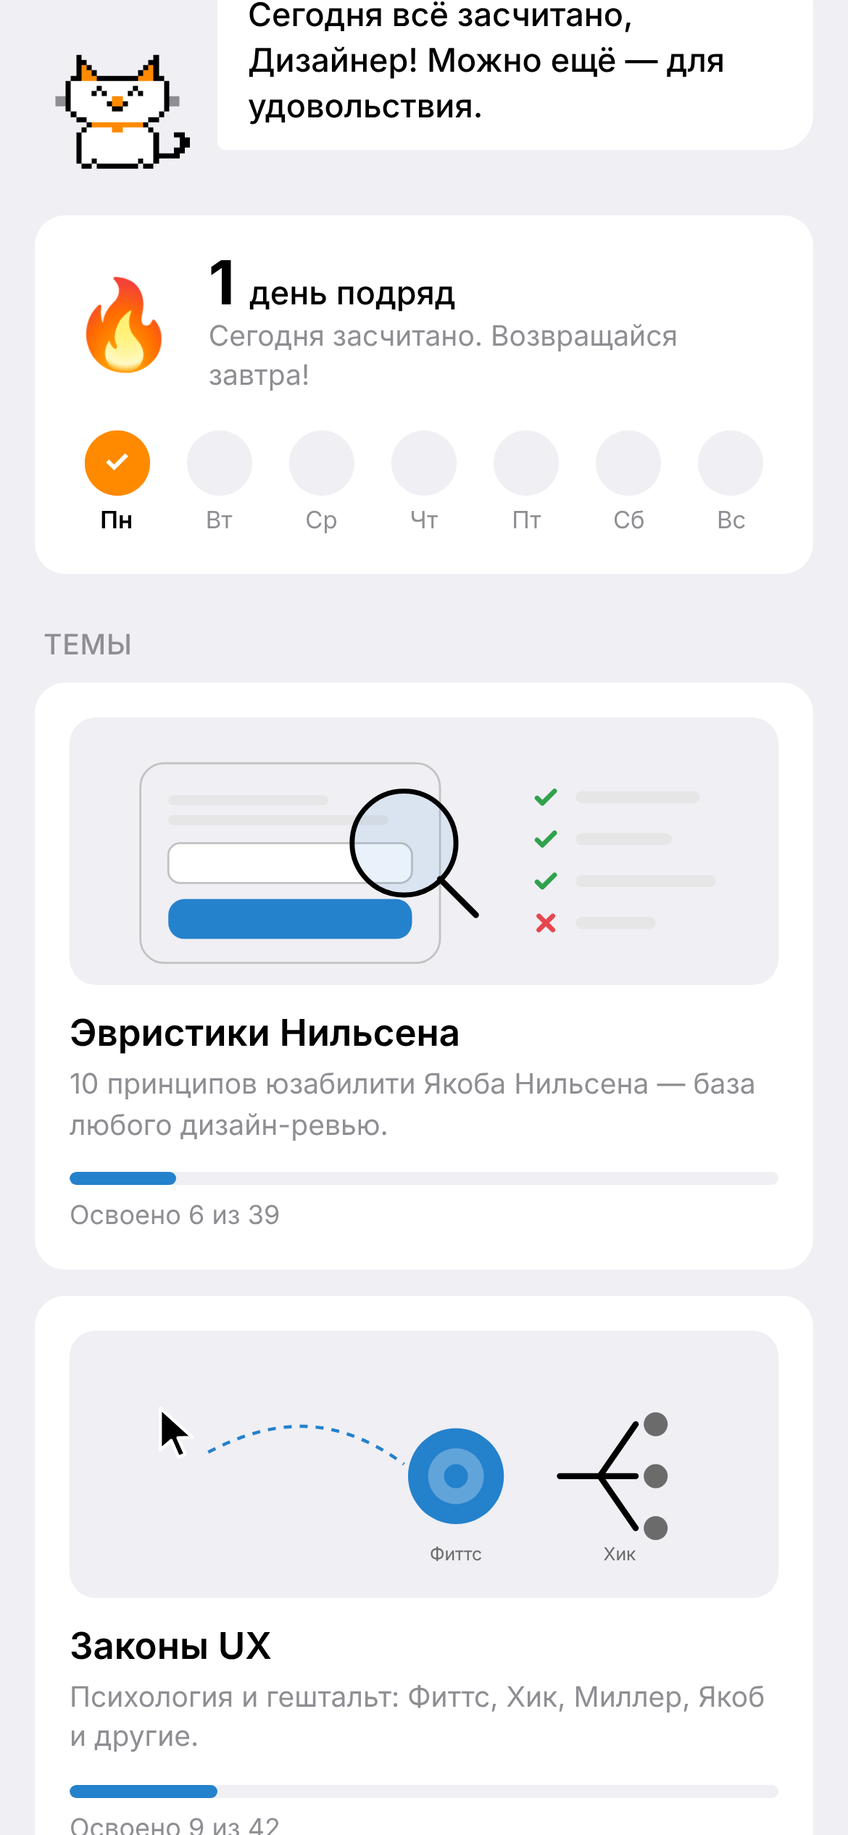
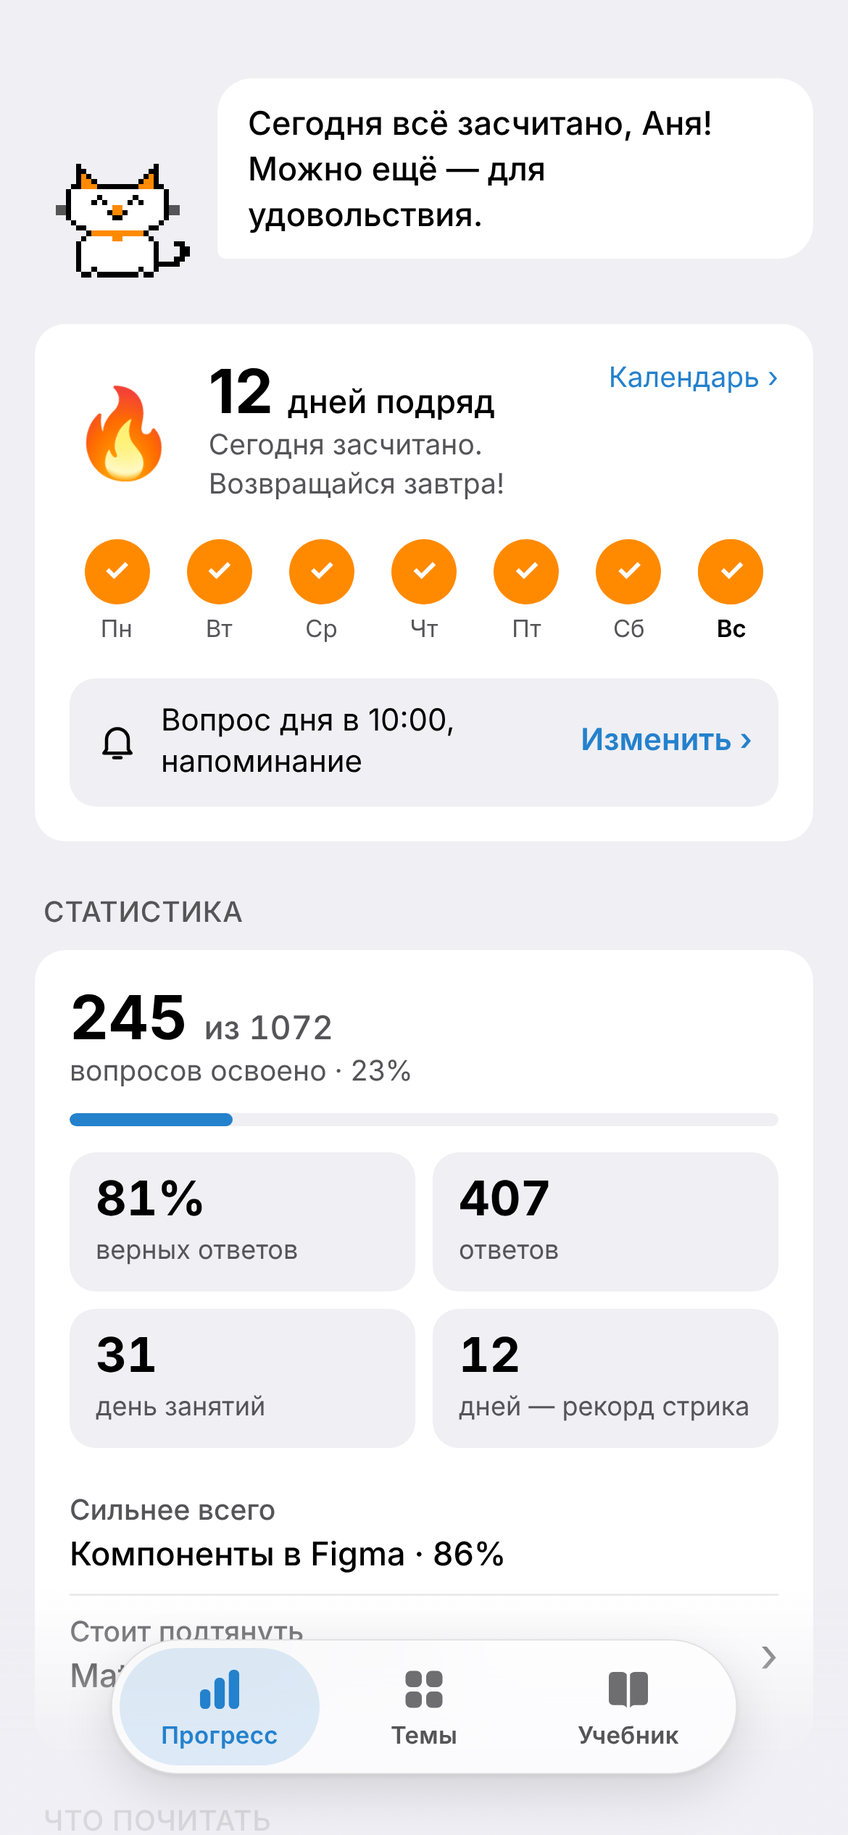
Карусель для Instagram: учебник, 14 тем, свежие скриншоты
- Новый слайд «Учебник»: урок «Фокус» и четыре пояснения.
- «Контент»: 14 тем плашками по трём разделам вместо списка, который
  не влезал в слайд.
- Обложка, «Решение», «Форматы», «Разбор»: 1000+ вопросов, учебник,
  уроки в цифрах, переход из ошибки в урок.
- «Итерации»: учебник, уведомления в карточке стрика, темы по Figma.
- «Привычка»: экран итогов со стриком, «Поделиться» и предложением
  напоминания вместо старых настроек.
- «Под капотом»: больше 2400 автотестов.
- Скриншоты главной, урока и итогов пересняты; подпись к посту обновлена.

Claude-Session: https://claude.ai/code/session_016ARqkcdLVW94N54ZbS2hwr

diff --git a/web/src/carousel/Carousel.tsx b/web/src/carousel/Carousel.tsx
@@ -2,7 +2,7 @@
 // PNG снимаются скриптом из docs/DEVELOPMENT.md, исходные скриншоты лежат в ./shots.
 import QRCode from 'qrcode';
 import { useEffect, useState, type ReactNode } from 'react';
-import { questions, tracks } from '../../../content';
+import { lessons, questions, sections, tracks } from '../../../content';
 import { Cat, type CatMood } from '../Cat';
 import { plural, questionsWord } from '../format';
 import { illustrations } from '../illustrations';
@@ -12,7 +12,8 @@ import feedback from './shots/feedback.png';
 import grid from './shots/grid.png';
 import home from './shots/home.png';
 import hotspot from './shots/hotspot.png';
-import settings from './shots/settings.png';
+import lesson from './shots/lesson.png';
+import result from './shots/result.png';
 import avatarBlue from '../../../brand/avatar-blue.png';
 import avatarMint from '../../../brand/avatar-mint.png';
 import avatarYellow from '../../../brand/avatar-yellow.png';
@@ -20,7 +21,10 @@ import avatarYellow from '../../../brand/avatar-yellow.png';
 const BOT_URL = 't.me/uxuitrainer_bot';
 
 const visualCount = questions.filter((q) => ('image' in q && q.image) || q.kind === 'image-choice' || (q.kind === 'multi' && q.images)).length;
-const TOTAL = 11;
+const TOTAL = 12;
+/** «1000+», а не точное число: подпись не устаревает с каждым новым вопросом */
+const QUESTIONS = `${Math.floor(questions.length / 100) * 100}+`;
+const lessonsWord = (n: number) => plural(n, 'урок', 'урока', 'уроков');
 
 function Slide({ n, children, className = '' }: { n: number; children: ReactNode; className?: string }) {
   return (
@@ -67,7 +71,7 @@ export function Carousel() {
           UX-тренажёр
           <br />с котом Кеглем
         </h1>
-        <p className="lead">Тесты по эвристикам, законам UX, Apple HIG, Material и WCAG — прямо в Telegram</p>
+        <p className="lead">{QUESTIONS} вопросов и учебник по UX, гайдлайнам и Figma — прямо в Telegram</p>
         <div className="cover__art">
           <Cat mood="happy" size={360} />
           <Phone src={home} className="cover__phone" />
@@ -82,7 +86,7 @@ export function Carousel() {
         <div className="cards">
           <div className="card">
             <b>Знания разбросаны</b>
-            <span>NN/g, Laws of UX, Apple HIG, Material, WCAG — десятки сайтов на английском</span>
+            <span>NN/g, Laws of UX, Apple, Google, W3C, справка Figma — десятки сайтов на английском</span>
           </div>
           <div className="card">
             <b>Тесты скучные</b>
@@ -109,7 +113,7 @@ export function Carousel() {
             <ul>
               <li>Сессии по 10 вопросов</li>
               <li>Разбор каждого ответа</li>
-              <li>Прогресс по темам</li>
+              <li>Учебник по каждой теме</li>
               <li>Стрик и повторение ошибок</li>
             </ul>
           </div>
@@ -119,7 +123,7 @@ export function Carousel() {
               <li>Вопрос дня прямо в чат</li>
               <li>Напоминание о стрике</li>
               <li>Время, пояс и пауза — в настройках</li>
-              <li>По умолчанию молчит</li>
+              <li>Пишет только с разрешения</li>
             </ul>
           </div>
         </div>
@@ -133,8 +137,8 @@ export function Carousel() {
             <span>{questionsWord(questions.length)}</span>
           </div>
           <div>
-            <b>{visualCount}</b>
-            <span>на макетах</span>
+            <b>{lessons.length}</b>
+            <span>{lessonsWord(lessons.length)}</span>
           </div>
         </div>
       </Slide>
@@ -142,29 +146,36 @@ export function Carousel() {
       {/* 4. Темы */}
       <Slide n={4}>
         <Tag>Контент</Tag>
-        <h2>Пять тем — от базы до гайдлайнов платформ</h2>
-        <div className="tracks">
-          {tracks.map((t) => (
-            <div key={t.id} className="track-row">
-              <div className="track-row__art">
-                <Wireframe name={t.art} />
-              </div>
-              <div>
-                <b>{t.title}</b>
-                <span>
-                  {questions.filter((q) => q.track === t.id).length} {questionsWord(questions.filter((q) => q.track === t.id).length)}
-                </span>
+        <h2>
+          {tracks.length} {plural(tracks.length, 'тема', 'темы', 'тем')} в трёх разделах
+        </h2>
+        <div className="sections">
+          {sections.map((sec) => (
+            <div key={sec.id} className="section-card">
+              <b>{sec.title}</b>
+              <div className="section-card__tracks">
+                {sec.tracks.map((id) => {
+                  const t = tracks.find((x) => x.id === id)!;
+                  return (
+                    <span key={id} className="section-card__track">
+                      {t.emoji} {t.title}
+                    </span>
+                  );
+                })}
               </div>
             </div>
           ))}
         </div>
-        <p className="note">Каждый факт сверен с первоисточником: nngroup.com, lawsofux.com, developer.apple.com, документация Google, w3.org</p>
+        <p className="note">Каждый факт сверен с первоисточником</p>
       </Slide>
 
       {/* 5. Форматы */}
       <Slide n={5}>
         <Tag>Форматы</Tag>
         <h2>Меньше текста — больше макетов</h2>
+        <p className="lead">
+          {visualCount} {questionsWord(visualCount)} — на вайрфреймах, а не текстом
+        </p>
         <div className="phones">
           {[
             [hotspot, 'Найди проблему', 'тапом по макету'],
@@ -202,25 +213,54 @@ export function Carousel() {
               <span>исправленный вайрфрейм рядом с ошибкой</span>
             </li>
             <li>
-              <b>Первоисточник</b>
-              <span>ссылка на статью, чтобы копнуть глубже</span>
+              <b>Урок и первоисточник</b>
+              <span>из ошибки — сразу в урок учебника или в статью</span>
             </li>
           </ol>
         </div>
       </Slide>
 
-      {/* 7. Итерации */}
-      <Slide n={7}>
+      {/* 7. Учебник */}
+      <Slide n={7} className="explain">
+        <Tag>Учебник</Tag>
+        <h2>Ошибся — открой урок</h2>
+        <p className="lead">
+          {lessons.length} {lessonsWord(lessons.length)} по всем темам: тест проверяет, урок объясняет
+        </p>
+        <div className="explain__body">
+          <Phone src={lesson} className="phone--tall" />
+          <ol className="callouts">
+            <li>
+              <b>Простым языком</b>
+              <span>пересказ NN/g, Laws of UX, Apple, Google, W3C и справки Figma</span>
+            </li>
+            <li>
+              <b>Примеры из жизни</b>
+              <span>лифт, врач, аварийный выход — чтобы принцип запомнился</span>
+            </li>
+            <li>
+              <b>Так себе / лучше</b>
+              <span>два вайрфрейма рядом вместо абзаца текста</span>
+            </li>
+            <li>
+              <b>Три вопроса на закрепление</b>
+              <span>а дальше — следующий урок по порядку</span>
+            </li>
+          </ol>
+        </div>
+      </Slide>
+
+      {/* 8. Итерации */}
+      <Slide n={8}>
         <Tag>Итерации</Tag>
         <h2>Протестировали — поправили</h2>
-        <p className="lead">Каждая правка — после живого теста в Telegram</p>
         <div className="iterations">
           {[
             ['Простыни текста наскучивают', 'Вопросы на макетах, вайрфреймы и кот-маскот'],
-            ['Варианты A и B мелкие', 'Варианты друг под другом на всю ширину'],
-            ['Кнопка спорит со скруглениями экрана', 'Своя кнопка с отступом от safe area'],
             ['Верный ответ наугад ничему не учит', 'Разбор после любого ответа'],
-            ['Не хватает гайдлайнов платформ', 'Новые темы: HIG, Material, WCAG'],
+            ['Не хватает гайдлайнов и Figma', 'Новые темы: HIG, Material, WCAG и шесть тем по Figma'],
+            ['Тест проверяет, но не объясняет', 'Учебник: урок по каждой теме ошибки'],
+            ['Настройки уведомлений теряются внизу', 'Строка прямо в карточке стрика'],
           ].map(([was, now]) => (
             <div key={was} className="iteration">
               <span className="iteration__was">{was}</span>
@@ -231,15 +271,15 @@ export function Carousel() {
         </div>
       </Slide>
 
-      {/* 8. Привычка */}
-      <Slide n={8} className="habit">
+      {/* 9. Привычка */}
+      <Slide n={9} className="habit">
         <Tag>Привычка</Tag>
-        <h2>Возвращаться хочется, а бот не раздражает</h2>
+        <h2>Чтобы хотелось вернуться — и позвать друзей</h2>
         <div className="habit__body">
           <div className="habit__list">
             <div className="card">
               <b>Стрик 🔥</b>
-              <span>день засчитывается за сессию или за вопрос дня</span>
+              <span>день засчитывается за сессию или за вопрос дня; напомнить можно в один тап</span>
             </div>
             <div className="card">
               <b>Повторение ошибок</b>
@@ -252,16 +292,16 @@ export function Carousel() {
               </div>
             </div>
             <div className="card">
-              <b>Бот по умолчанию молчит</b>
-              <span>вопрос дня — только после выбора времени; пауза на 7 дней в один тап</span>
+              <b>Поделиться</b>
+              <span>результат, стрик или урок уходят в чат карточкой с твоими цифрами</span>
             </div>
           </div>
-          <Phone src={settings} className="phone--tall" />
+          <Phone src={result} className="phone--tall" />
         </div>
       </Slide>
 
-      {/* 9. Кот */}
-      <Slide n={9} className="mascot">
+      {/* 10. Кот */}
+      <Slide n={10} className="mascot">
         <Tag>Маскот</Tag>
         <h2>Кегль реагирует на каждый ответ</h2>
         <div className="moods">
@@ -284,8 +324,8 @@ export function Carousel() {
         </div>
       </Slide>
 
-      {/* 10. Под капотом */}
-      <Slide n={10}>
+      {/* 11. Под капотом */}
+      <Slide n={11}>
         <Tag>Под капотом</Tag>
         <h2>Бесплатно, быстро, проверяемо</h2>
         <div className="tech">
@@ -293,7 +333,7 @@ export function Carousel() {
             ['Telegram Mini App', 'React + Vite, нативная тема Telegram, светлая и тёмная'],
             ['Cloudflare Workers + D1', 'API, бот и база в одном воркере — на бесплатном тарифе'],
             [`${Object.keys(illustrations).length} ${plural(Object.keys(illustrations).length, 'иллюстрация', 'иллюстрации', 'иллюстраций')} кодом`, 'вайрфреймы собираются из деталей и сами меняют цвета под тему'],
-            ['Больше 300 автотестов', 'стрики, повторения, часовые пояса и проверка каждого вопроса: картинки, ссылки, разбор'],
+            ['Больше 2400 автотестов', 'стрики, повторения, часовые пояса, шеринг и проверка каждого вопроса и урока: картинки, ссылки, разбор'],
           ].map(([t, d]) => (
             <div key={t} className="tech__row">
               <b>{t}</b>
@@ -303,8 +343,8 @@ export function Carousel() {
         </div>
       </Slide>
 
-      {/* 11. Призыв */}
-      <Slide n={11} className="cta">
+      {/* 12. Призыв */}
+      <Slide n={12} className="cta">
         <Tag>Попробовать</Tag>
         <h2>Пять минут в день — и гайдлайны в голове</h2>
         <div className="cta__body">

diff --git a/web/src/carousel/carousel.css b/web/src/carousel/carousel.css
@@ -278,6 +278,44 @@ body {
   color: var(--hint);
 }
 
+/* 4. Темы по разделам */
+.sections {
+  display: flex;
+  flex-direction: column;
+  gap: 16px;
+}
+
+.section-card {
+  background: var(--surface);
+  border-radius: 32px;
+  padding: 26px 30px;
+  display: flex;
+  flex-direction: column;
+  gap: 16px;
+}
+
+.section-card > b {
+  font-size: 36px;
+  font-weight: 800;
+}
+
+.section-card__tracks {
+  display: flex;
+  flex-wrap: wrap;
+  gap: 12px;
+}
+
+.section-card__track {
+  display: inline-flex;
+  align-items: center;
+  gap: 12px;
+  padding: 10px 22px;
+  border-radius: 999px;
+  background: var(--bg);
+  font-size: 28px;
+  font-weight: 700;
+}
+
 /* 5. Форматы */
 .phones {
   margin-top: 12px;

diff --git a/brand/instagram/caption.md b/brand/instagram/caption.md
@@ -1,17 +1,19 @@
 UX-тренажёр с котом Кеглем 🐈 — Telegram Mini App для UX/UI-дизайнеров
 
-Дизайнеры много читают NN/g, Apple HIG и Material, но редко проверяют, что запомнилось. Отсюда идея: 5 минут практики в день прямо в Telegram.
+Дизайнеры много читают NN/g, гайдлайны Apple и Google, справку Figma, но редко проверяют, что запомнилось. Отсюда идея: 5 минут практики в день прямо в Telegram.
 
 Что внутри:
-• 5 тем: эвристики Нильсена, законы UX, Apple HIG, Material Design 3 и доступность (WCAG 2.2)
-• больше 160 вопросов, многие — на макетах: найди проблему тапом, выбери лучший вариант A или B
+• больше 1000 вопросов по 14 темам в трёх разделах: UX/UI, гайдлайны (Apple HIG, Material Design 3, WCAG 2.2) и Figma
+• многие задания на макетах: найди проблему тапом, отметь все ошибки на экране, выбери лучший вариант, расставь шаги по порядку
 • разбор после каждого ответа: суть, объяснение, «как правильно» и ссылка на первоисточник
+• учебник: 122 урока простым языком с примерами из жизни — из ошибки в тесте можно сразу перейти в нужный урок
 • стрик, повторение ошибок через 1, 3 и 7 дней и вопрос дня в чате — по желанию
+• результатом, стриком или уроком можно поделиться: в чат уходит карточка с твоими цифрами
 
-Продукт дорабатывался итерациями после живых тестов: от «простыней текста» к вопросам на макетах, от мелких картинок A/B к вариантам на всю ширину, от разбора только при ошибке — к разбору после любого ответа.
+Каждая правка — после живого теста в Telegram: от «простыней текста» к вопросам на макетах, от разбора только при ошибке — к разбору после любого ответа, от тестов, которые только проверяют, — к учебнику, который объясняет.
 
 Попробовать: t.me/uxuitrainer_bot (ссылка в профиле)
 
 Проект некоммерческий — для дизайн-сообщества.
 
-#uxdesign #uidesign #продуктовыйдизайн #ux #ui #telegramminiapp #дизайн #портфолио #accessibility #wcag #humaninterfaceguidelines #materialdesign
+#uxdesign #uidesign #продуктовыйдизайн #ux #ui #figma #telegramminiapp #дизайн #портфолио #accessibility #wcag #humaninterfaceguidelines #materialdesign
